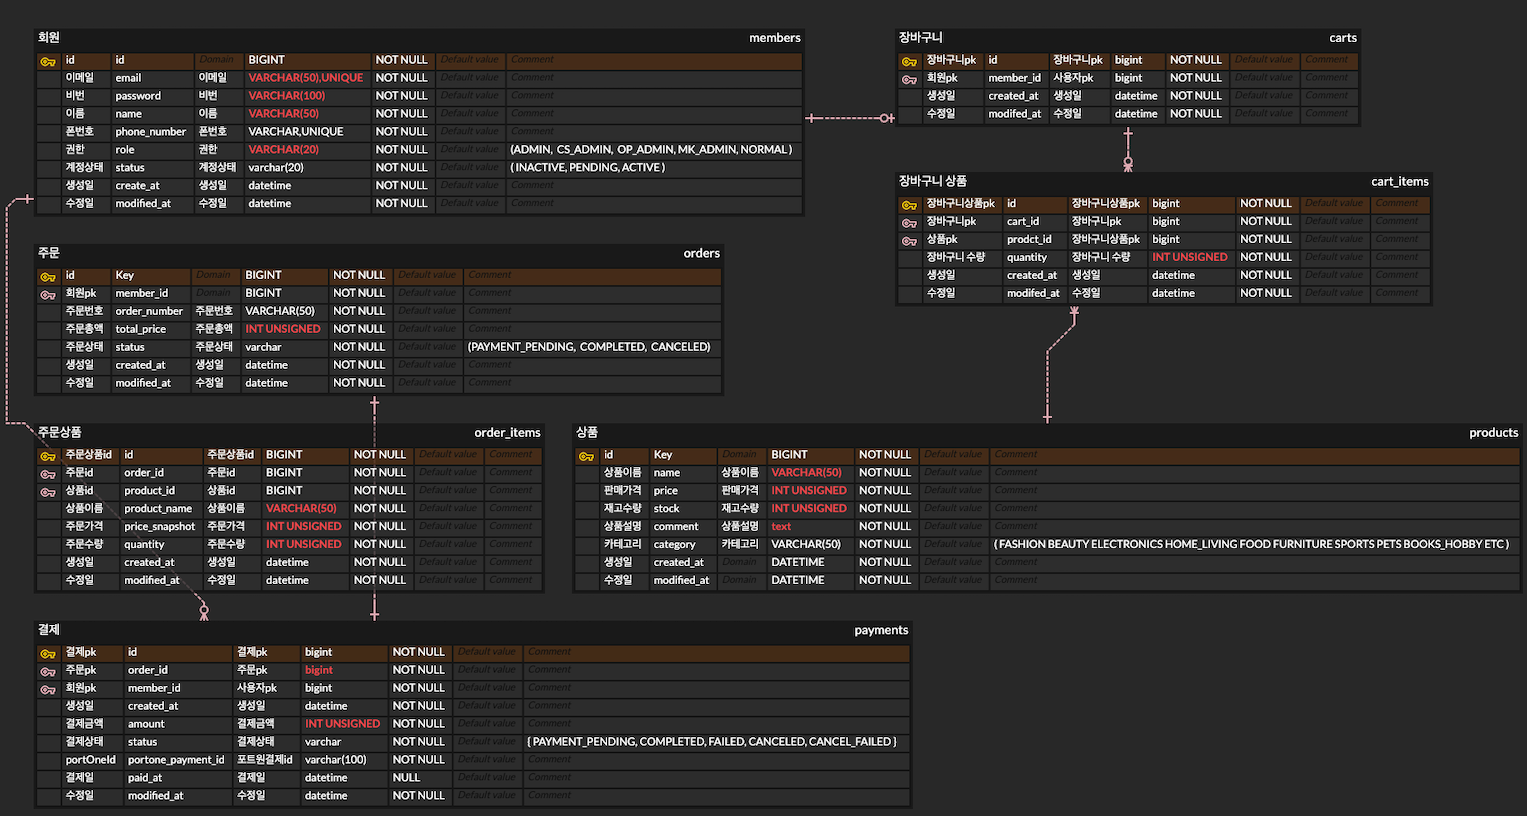
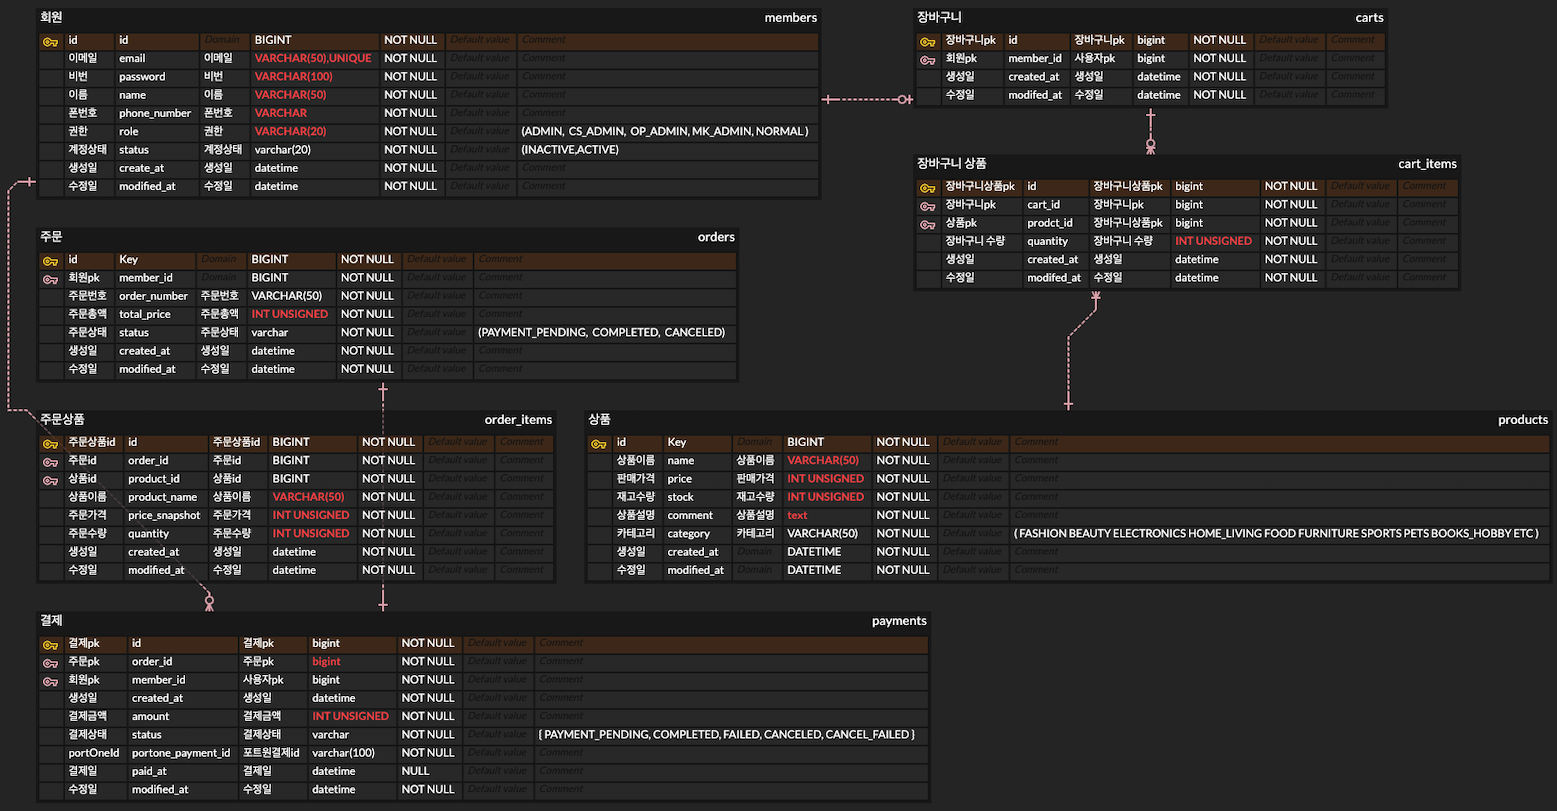
[docs/readme] 핵심 흐름 및 ERD 보완

diff --git a/README.md b/README.md
@@ -474,6 +474,40 @@ Payment → CANCELED
 
 이를 방지하기 위해 **주문 생성 후 30분 이상 결제가 완료되지 않은 주문을 자동 취소**합니다.
 
+#### 결제 대기 중 재고 선점
+
+주문이 생성되면 결제 여부와 관계없이
+상품 재고가 즉시 주문 수량만큼 감소합니다.
+
+예를 들어 재고가 1개 남은 상품을 사용자 A가 주문하면:
+
+```text
+상품 재고 1
+    ↓
+A 주문 생성
+    ↓
+상품 재고 0
+Order = PAYMENT_PENDING
+Payment = PAYMENT_PENDING
+```
+
+이 상태에서는 A가 아직 결제를 완료하지 않았더라도
+DB에 저장된 판매 가능 재고는 이미 `0`입니다.
+
+따라서 다른 사용자 B가 같은 상품으로 새로운 주문을 생성하려 하면
+재고 부족 검증에서 차단됩니다.
+
+즉, 결제 대기 시간 동안에는 해당 주문이 필요한 재고를
+**선점하고 있는 구조**입니다.
+
+A가 정상적으로 결제를 완료하면
+주문 생성 시 이미 확보한 재고를 사용하므로 재고를 다시 차감하지 않습니다.
+
+반대로 제한 시간 동안 결제를 완료하지 않으면
+자동 취소 과정에서 선차감했던 재고를 다시 판매 가능한 재고로 복구합니다.
+
+#### 자동 취소 흐름
+
 ```text
 스케줄러 1분마다 실행
         ↓
@@ -499,16 +533,111 @@ Order → CANCELED
 스케줄러는 1분마다 실행되며,
 현재 시각을 기준으로 30분 이상 지난 결제 대기 주문을 조회합니다.
 
-조회 이후 실제 취소 처리 시점에 주문 상태를 다시 확인하여
-이미 결제가 완료된 주문은 처리 대상에서 제외합니다.
+자동 취소 처리 메서드에서는 Order를 조회한 뒤
+해당 주문이 여전히 `PAYMENT_PENDING` 상태인지 확인합니다.
 
-재고 복구 시에도 상품 ID 순으로 정렬한 뒤 비관적 락을 획득하여
+재고 복구 시에는 상품 ID 순으로 정렬한 뒤 비관적 락을 획득하여
 여러 상품의 락 획득 순서를 일정하게 유지합니다.
 
 또한 각 만료 주문은 `REQUIRES_NEW`를 사용해 별도의 트랜잭션으로 처리합니다.
 
 따라서 하나의 만료 주문 처리에서 예외가 발생하더라도
 다른 주문의 자동 취소 처리까지 함께 롤백되지 않도록 구성했습니다.
+
+#### 30분 만료 시점의 동시 처리
+
+자동 취소 로직은 재고를 복구하기 전에
+주문이 `PAYMENT_PENDING`인지 확인합니다.
+
+결제 완료 처리 역시 실제 상태를 변경하기 직전에
+`Payment`와 `Order`에 비관적 락을 획득하고
+두 상태가 모두 `PAYMENT_PENDING`인지 재검증합니다.
+
+다만 현재 자동 취소 처리에서는
+`Order` 자체를 비관적 락으로 조회하지 않고
+일반 조회를 통해 Order와 OrderItem을 가져옵니다.
+
+따라서 30분 만료 시점에
+**동일 주문의 결제 확정과 자동 취소가 동시에 진행되면 처리 순서에 따라 결과가 달라질 수 있습니다.**
+
+##### 자동 취소가 먼저 완료되는 경우
+
+```text
+Order = PAYMENT_PENDING
+        ↓
+자동 취소 실행
+        ↓
+재고 복구
+Order → CANCELED
+        ↓
+COMMIT
+        ↓
+결제 확정 요청
+        ↓
+Payment / Order 비관적 락 획득
+        ↓
+Order = CANCELED 확인
+        ↓
+결제 상태 검증 실패
+```
+
+이 순서에서는 결제 확정 단계가
+이미 `CANCELED` 상태로 변경된 Order를 확인하므로
+결제를 완료 처리하지 않습니다.
+
+##### 자동 취소가 Order를 먼저 읽은 뒤 결제 확정이 먼저 완료되는 경우
+
+```text
+자동 취소 트랜잭션
+Order = PAYMENT_PENDING 조회
+        ↓
+        │
+        ├──── 결제 확정 트랜잭션
+        │
+        │     Payment / Order 비관적 락 획득
+        │             ↓
+        │     Payment → COMPLETED
+        │     Order → COMPLETED
+        │             ↓
+        │           COMMIT
+        │
+        ↓
+자동 취소 트랜잭션 계속 실행
+        ↓
+기존에 읽어둔
+Order = PAYMENT_PENDING 상태를 기준으로 처리
+        ↓
+상품 재고 복구
+        ↓
+Order.cancel()
+        ↓
+Order → CANCELED
+```
+
+자동 취소 트랜잭션은 이미 메모리에 로딩한
+`PAYMENT_PENDING` 상태의 Order를 기준으로 후속 작업을 진행하기 때문에,
+그 사이 결제 확정 트랜잭션이 먼저 커밋되어
+DB의 주문 상태가 `COMPLETED`가 되었더라도 이를 다시 조회하지 않을 수 있습니다.
+
+이 경우 **결제가 완료된 주문이 `CANCELED` 상태로 덮어써지고,
+이미 판매된 상품의 재고가 다시 복구되는 데이터 불일치가 발생할 수 있습니다.**
+
+이 문제는 서로 다른 사용자가 하나 남은 재고를 동시에 구매하는 문제와는 다릅니다.
+
+일반적인 재고 초과 판매는 주문 생성 단계에서
+**재고 선차감 + Product 비관적 락**을 적용하여 방지합니다.
+
+현재 남아 있는 경계 조건은
+**동일 주문의 결제 확정과 30분 만료 자동 취소가 겹치는 경우**입니다.
+
+이번 프로젝트 범위에서는 해당 로직을 추가 수정하지 않았습니다.
+
+향후에는 자동 취소 처리에서도 먼저 Order 비관적 락을 획득한 뒤
+상태를 검증하도록 변경하여
+결제 확정과 자동 취소가 동일한 Order 락을 기준으로 순차 처리되도록 개선할 수 있습니다.
+
+구현 시에는 현재 OrderItem 조회 방식과 락 획득 방식을 함께 고려하여
+쿼리 및 회귀 테스트를 다시 검증할 필요가 있습니다.
 
 > 현재 자동 취소 로직은 **Order 상태와 재고만 정리**합니다.
 > 연결된 `Payment`의 상태는 변경하지 않습니다.
@@ -555,6 +684,19 @@ stateDiagram-v2
 
 #### Payment 상태
 
+`PaymentStatus`에서 `PAYMENT_PENDING`은
+**자기 자신을 제외한 모든 Payment 상태로 전이할 수 있습니다.**
+
+```text
+PAYMENT_PENDING
+├─→ COMPLETED
+├─→ FAILED
+├─→ CANCELED
+└─→ CANCEL_FAILED
+```
+
+전체 상태 전이는 다음과 같습니다.
+
 ```mermaid
 stateDiagram-v2
     [*] --> PAYMENT_PENDING
@@ -571,6 +713,25 @@ stateDiagram-v2
 
     FAILED --> [*]
     CANCELED --> [*]
+```
+
+상태별 전이 규칙은 다음과 같습니다.
+
+```text
+PAYMENT_PENDING
+→ COMPLETED / FAILED / CANCELED / CANCEL_FAILED
+
+COMPLETED
+→ CANCELED
+
+CANCEL_FAILED
+→ FAILED / CANCELED
+
+FAILED
+→ 종료
+
+CANCELED
+→ 종료
 ```
 
 `PaymentStatus`는 허용 가능한 상태 전이를 Enum에서 관리하고,
@@ -597,6 +758,11 @@ stateDiagram-v2
 > `CANCEL_FAILED` 상태에서 자동 취소가 수행되면
 > 내부 재고는 다시 판매 가능한 상태가 되지만 PG 결제는 여전히 남아 있습니다.
 > 따라서 이 상태는 자동으로 종결된 것으로 보지 않고 운영상 후속 처리 대상으로 관리합니다.
+>
+> 또한 30분 만료 자동 취소와 동일 주문의 결제 확정이 경쟁하는 경우,
+> 자동 취소가 락 없이 읽어둔 `PAYMENT_PENDING` 상태를 기준으로 후속 처리를 계속하면
+> 이미 결제 완료된 주문을 `CANCELED`로 변경하고 재고를 잘못 복구할 가능성이 있습니다.
+> 해당 상황은 정상적인 상태 조합이 아닌 동시성 경계 조건으로 별도 관리합니다.
 
 ---
 
@@ -605,6 +771,7 @@ stateDiagram-v2
 | 원칙 | 처리 방식 |
 | --- | --- |
 | 재고 확보 시점 | 주문 생성 시 선차감 |
+| 결제 대기 중 재고 | 선차감된 수량을 해당 주문이 선점하여 다른 주문의 중복 판매 방지 |
 | 주문 생성 정합성 | 재고 차감 · 주문 · 스냅샷 · Payment 생성을 단일 트랜잭션으로 처리 |
 | 주문 정보 보존 | 상품명·가격을 `OrderItem`에 스냅샷 저장 |
 | 다중 상품 주문 | Product ID 순으로 정렬 후 비관적 락 획득 |
@@ -613,10 +780,12 @@ stateDiagram-v2
 | 장바구니 처리 | 결제 성공 시 이번 주문 상품만 삭제 |
 | 결제 전 주문 취소 | Order / Payment `CANCELED` + 재고 복구 |
 | 결제 완료 후 사용자 취소 | 현재 지원하지 않음 |
+| Payment 상태 전이 | `PAYMENT_PENDING`에서 `COMPLETED`, `FAILED`, `CANCELED`, `CANCEL_FAILED`로 전이 가능 |
 | PortOne 검증 | 결제 ID · 상태 · 실제 결제 금액을 서버에서 재검증 |
 | PortOne 보상 처리 | PG 결제 완료 후 내부 처리 실패 시 자동 취소 시도 |
 | 동시 결제 방어 | 상태 변경 직전 Order / Payment 락 획득 및 재검증 |
 | 장기 미결제 처리 | 30분 초과 주문 자동 취소 및 재고 복구 |
+| 만료 경계 동시성 | 자동 취소의 Order 조회에는 락이 없어 결제 확정과 경쟁 시 완료 주문 취소·재고 오복구 가능 → Order 단위 동시성 제어 검토 |
 | 보상 취소 실패 | `CANCEL_FAILED`로 분리하여 운영 후속 처리 대상으로 관리 |
 
 ---
@@ -752,6 +921,10 @@ stateDiagram-v2
 Commerce Plus는 회원, 상품, 장바구니, 주문, 결제를 중심으로
 총 7개의 테이블로 구성했습니다.
 
+ERD는 주요 컬럼과 엔티티 간 관계를 중심으로 표현했으며,
+실제 코드에 적용된 일부 UNIQUE 제약과 비즈니스 식별자 정책은
+아래 핵심 설계에서 별도로 설명합니다.
+
 ---
 
 ### 5.1 주요 관계
@@ -828,7 +1001,8 @@ UNIQUE (cart_id, product_id)
 ```
 
 같은 장바구니에 동일한 상품이 여러 행으로 생성되지 않도록 하고,
-이미 존재하는 상품을 다시 추가하면 새로운 행을 만들지 않고 기존 수량에 합산합니다.
+이미 존재하는 상품을 다시 추가하면 새로운 행을 만들지 않고
+기존 수량에 합산합니다.
 
 ---
 
@@ -842,8 +1016,8 @@ id             → DB 내부 식별자
 order_number   → 서버가 채번하는 주문 식별자
 ```
 
-주문번호는 서버에서 UUID를 기반으로 생성하며
-DB PK와 독립된 고유 식별값으로 사용합니다.
+`order_number`는 서버에서 `ORD-` + UUID 형식으로 생성하며,
+DB PK와 독립된 고유 주문 식별값으로 사용합니다.
 
 결제 역시 DB PK와 별도의 결제 식별자를 사용합니다.
 
@@ -857,7 +1031,27 @@ portone_payment_id   → 서버가 채번하는 결제 식별자
 `PAY-` + UUID 형식으로 서버가 생성합니다.
 
 모의 결제에서도 Payment 생성 시 동일하게 발급되며,
-PortOne 실결제에서는 해당 값을 외부 결제와 내부 Payment를 연결하는 식별자로 사용합니다.
+PortOne 실결제에서는 해당 값을 외부 PG 결제와
+내부 Payment를 연결하는 식별자로 사용합니다.
+
+---
+
+#### 주요 UNIQUE 제약
+
+데이터 중복 및 관계 정합성을 보장하기 위해
+다음 UNIQUE 제약을 적용했습니다.
+
+| 대상 | 제약 |
+| --- | --- |
+| `members.email` | 동일 이메일 회원 중복 생성 방지 |
+| `carts.member_id` | 회원당 하나의 장바구니 유지 |
+| `cart_items(cart_id, product_id)` | 동일 장바구니 내 동일 상품 중복 행 방지 |
+| `orders.order_number` | 주문번호 중복 방지 |
+| `payments.order_id` | 주문당 하나의 Payment 유지 |
+| `payments.portone_payment_id` | 결제 식별자 중복 방지 |
+
+`members.phone_number`는 필수값으로 관리하지만
+현재 코드에서는 UNIQUE 제약을 적용하지 않습니다.
 
 ---
 
@@ -882,8 +1076,22 @@ PaymentStatus
 ```
 
 주문과 결제 상태를 분리하여
-결제 실패, 주문 취소, PortOne 보상 취소 실패 등
-각 비즈니스 상황을 구분하여 저장할 수 있도록 구성했습니다.
+결제 성공·실패, 주문 취소, PortOne 보상 취소 실패 등
+각 비즈니스 상황을 구분하여 저장합니다.
+
+`PaymentStatus`의 `PAYMENT_PENDING`은
+자기 자신을 제외한 모든 Payment 상태로 전이할 수 있습니다.
+
+```text
+PAYMENT_PENDING
+├─→ COMPLETED
+├─→ FAILED
+├─→ CANCELED
+└─→ CANCEL_FAILED
+```
+
+상세한 주문·결제 상태 전이와 처리 흐름은
+[3.7 주문·결제 상태 전이](#37-주문결제-상태-전이)에서 설명합니다.
 
 ---
 
@@ -898,6 +1106,8 @@ PaymentStatus
 | `orders` | 주문번호·주문 총액·주문 상태 관리 |
 | `order_items` | 주문 상품 및 상품명·가격 스냅샷 관리 |
 | `payments` | 결제 금액·상태·결제 식별자 관리 |
+
+---
 
 ---
 ## 6. API 명세
@@ -1880,6 +2090,10 @@ Order   → CANCELED
 | `FAILED` | 결제 실패 |
 | `CANCELED` | 결제 취소 |
 | `CANCEL_FAILED` | PortOne 보상 취소 실패 |
+
+`PAYMENT_PENDING` 상태에서는
+`COMPLETED`, `FAILED`, `CANCELED`, `CANCEL_FAILED`로 전이할 수 있으며,
+상세한 상태 전이 규칙은 [3.7 주문·결제 상태 전이](#37-주문결제-상태-전이)에서 설명합니다.
 
 현재 사용자 주문 취소 API는 **결제 전 취소만 지원**합니다.
 
